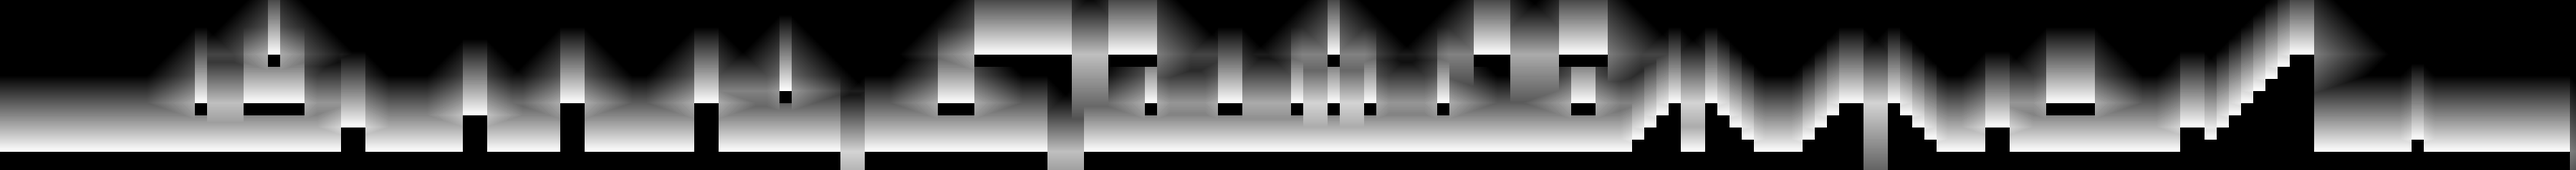
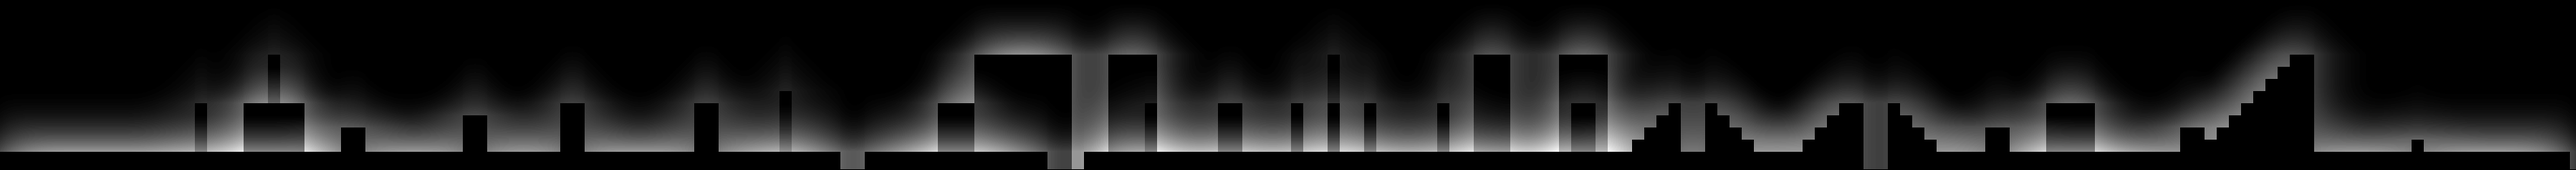
Fix normalized reach computation

diff --git a/gamedifficulty/Processing.py b/gamedifficulty/Processing.py
@@ -413,74 +413,61 @@ cv.Mat[cv.CV_8U]:
 def CreateReachNormalizedTexture(reach: cv.Mat[cv.CV_8U], collisionMask: cv.Mat[cv.CV_8U]) -> cv.Mat[cv.CV_8U]:
     """
     Creates a normalized reach texture from an existing reach mask.
-    Accumulates (sums) contributions from multiple reach sources instead of taking max.
-    Final result is normalized to 0-100 scale.
-    Optimized for large levels using row/column propagation.
+    For each "ground" point where the pixel is not reachable but the pixel immediately above is,
+    assigns a value of 100 and then creates a vertical gradient upwards in the same column,
+    subtracting 1 for each pixel until reaching 0.
+    It also detects horizontal platform edges: when a non-reachable pixel is adjacent to a reachable
+    pixel on the left or right, it assigns 100 at that edge and propagates a horizontal gradient
+    towards the outside of the platform.
     :param reach: binary reach mask where 1 means reachable and 0 means not reachable
-    :param collisionMask: collision mask where 1 means solid
-    :return: normalized reach texture with accumulated values scaled to 0-100
+    :return: normalized reach texture with values from 0 to 100
     """
+    result = np.zeros(reach.shape, dtype=np.uint32)
     height, width = reach.shape
     reachable = reach > 0
-    collision = collisionMask > 0
 
-    # Build vertical seed values from ground edges - accumulate upwards
-    rowValues = np.zeros(reach.shape, dtype=np.float32)
-    seeds = np.nonzero(np.logical_and(~reachable[1:, :], reachable[:-1, :]))
-    for seed_y, seed_x in zip(seeds[0], seeds[1]):
-        y = seed_y + 1
-        value = 100.0
-        oy = y - 1
-        while oy >= 0 and value > 0:
-            if collision[oy, seed_x]:
-                break
-            rowValues[oy, seed_x] += value
-            oy -= 1
-            value -= 1.0
+    # vertical gradient from ground points
+    for x in range(width):
+        for y in range(1, height):
+            if not reachable[y, x] and reachable[y - 1, x]:
+                    value = 100
+                    for oy in range(y - 1, 0, -1):
+                        if collisionMask[oy, x]:
+                            break
+                                
+                        result[oy, x] += max(0, value)
+                        
+                        valueX = value
+                        for ox in range(x, x - value, -1):
+                            if ox < 0 or collisionMask[oy, ox]:
+                                break;
 
-    result = np.zeros((height, width), dtype=np.float32)
+                            result[oy, ox] += max(0, valueX)
 
-    # Horizontal propagation left-to-right and right-to-left along each row
-    for oy in range(height):
-        row = rowValues[oy].copy()
-        if not row.any():
-            continue
+                            for ooy in range(oy + 1, height - 1, 1):
+                                if collisionMask[ooy, ox]:
+                                    break;
+                            
+                                result[ooy, ox] += max(0, valueX)
 
-        row_ext = np.zeros(width, dtype=np.float32)
-        
-        # Left-to-right propagation
-        current = 0.0
-        for ox in range(width):
-            if collision[oy, ox]:
-                current = 0.0
-            else:
-                if current > 0:
-                    current -= 1.0
-                current = max(current, float(row[ox]))
-                row_ext[ox] += current
+                            valueX -= 1
 
-        # Right-to-left propagation
-        current = 0.0
-        for ox in range(width - 1, -1, -1):
-            if collision[oy, ox]:
-                current = 0.0
-            else:
-                if current > 0:
-                    current -= 1.0
-                current = max(current, float(row[ox]))
-                row_ext[ox] += current
+                        valueX = value
+                        for ox in range(x, x + value, 1):
+                            if ox >= width or collisionMask[oy, ox]:
+                                break;
 
-        result[oy] = row_ext
+                            result[oy, ox] += max(0, valueX)
 
-    # Downward extension from each row along columns
-    for ox in range(width):
-        current = 0.0
-        for oy in range(height):
-            if collision[oy, ox]:
-                current = 0.0
-            else:
-                current = max(current - 1.0 if current > 0 else 0, float(result[oy, ox]))
-                result[oy, ox] = current
+                            for ooy in range(oy + 1, height - 1, 1):
+                                if collisionMask[ooy, ox]:
+                                    break;
+                            
+                                result[ooy, ox] += max(valueX, 0)
+
+                            valueX -= 1
+
+                        value -= 1
 
     # Normalize to 0-100 scale
     max_val = np.max(result)
